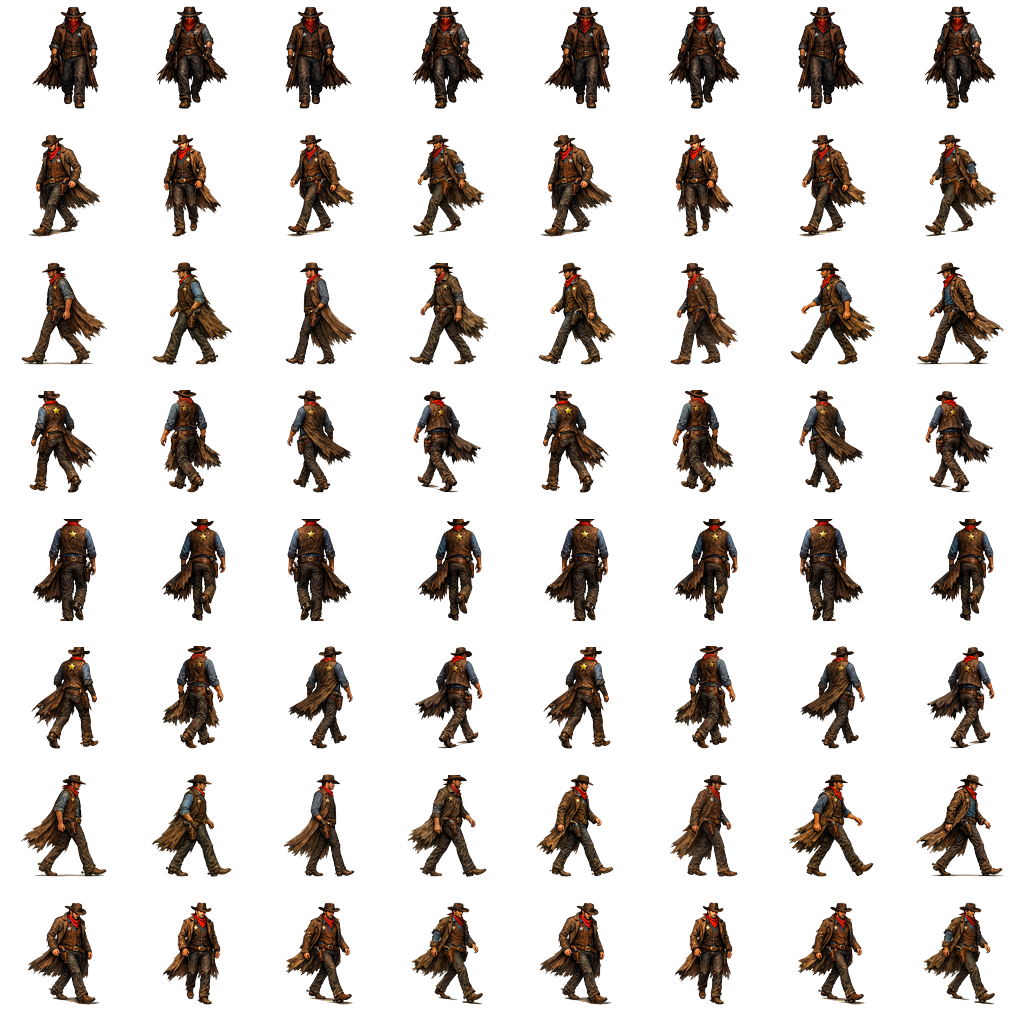
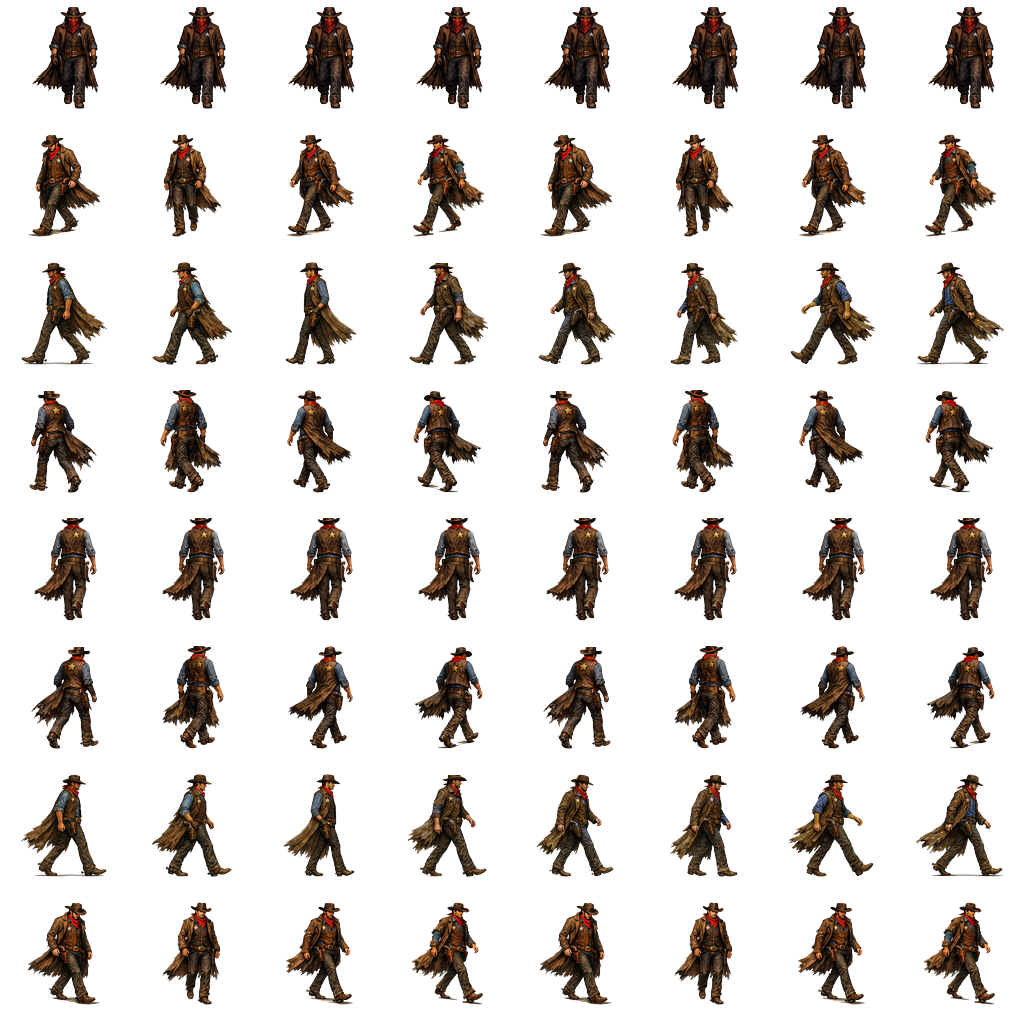
Walk up/down: frozen mid-stride frame + procedural step-bob
Every multi-frame combination for the front/back walk rows still shimmered —
the AI sheet's frames are independent generations, so some visible difference
always survives frame swaps. south/north rows are now a single locked
mid-stride frame (rebuild_walk.py), and drawChrisSprite adds a 2px step-bob
at walk cadence (WALK_BOB_PX / WALK_BOB_HZ in config.js) so movement still
reads as walking. Diagonal/profile rows keep their real cycles, now
histogram-matched onto each row's reference frame for tone consistency
(replaces the weaker mean-luminance normalize).

diff --git a/index.html b/index.html
@@ -59,21 +59,21 @@
 
   <!-- ?v= is a cache-buster: bump it whenever game/*.js changes so browsers
        (file:// and localhost alike) can't serve a stale build. -->
-  <script src="game/config.js?v=10"></script>
-  <script src="game/utils.js?v=10"></script>
-  <script src="game/input.js?v=10"></script>
-  <script src="game/audio.js?v=10"></script>
-  <script src="game/camera.js?v=10"></script>
-  <script src="game/world.js?v=10"></script>
-  <script src="game/assets.js?v=10"></script>
-  <script src="game/chris-manifest.js?v=10"></script>
-  <script src="game/horse-manifest.js?v=10"></script>
-  <script src="game/sprites.js?v=10"></script>
-  <script src="game/entities.js?v=10"></script>
-  <script src="game/systems.js?v=10"></script>
-  <script src="game/game.js?v=10"></script>
-  <script src="game/render.js?v=10"></script>
-  <script src="game/main.js?v=10"></script>
+  <script src="game/config.js?v=11"></script>
+  <script src="game/utils.js?v=11"></script>
+  <script src="game/input.js?v=11"></script>
+  <script src="game/audio.js?v=11"></script>
+  <script src="game/camera.js?v=11"></script>
+  <script src="game/world.js?v=11"></script>
+  <script src="game/assets.js?v=11"></script>
+  <script src="game/chris-manifest.js?v=11"></script>
+  <script src="game/horse-manifest.js?v=11"></script>
+  <script src="game/sprites.js?v=11"></script>
+  <script src="game/entities.js?v=11"></script>
+  <script src="game/systems.js?v=11"></script>
+  <script src="game/game.js?v=11"></script>
+  <script src="game/render.js?v=11"></script>
+  <script src="game/main.js?v=11"></script>
 
 </body>
 </html>

diff --git a/game/sprites.js b/game/sprites.js
@@ -155,8 +155,12 @@ function drawChrisSprite(ctx, player, ox, oy) {
   const dirIdx = Math.max(0, m.directions.indexOf(a.dir));
   const frame = Math.min(a.frame, got.def.framesPerDirection - 1);
   const sx = frame * m.frameWidth, sy = dirIdx * m.frameHeight;
+  // Procedural step-bob while walking — the front/back walk rows are a single
+  // frozen frame (see docs/tools/rebuild_walk.py), so code supplies the motion.
+  const bob = (a.anim === 'walk' && CFG.WALK_BOB_PX)
+    ? Math.abs(Math.sin(Game.time * Math.PI * (CFG.WALK_BOB_HZ||5))) * -CFG.WALK_BOB_PX : 0;
   const dx = (player.x - ox) - anchor.x * scale;
-  const dy = (player.y + (CFG.SPRITE_FOOT_OFFSET||0) - oy) - anchor.y * scale;
+  const dy = (player.y + (CFG.SPRITE_FOOT_OFFSET||0) - oy) - anchor.y * scale + bob;
   const prev = ctx.imageSmoothingEnabled;
   ctx.imageSmoothingEnabled = true;
   // M6 ink outline: the frame's silhouette at ±1px in four directions.

diff --git a/game/config.js b/game/config.js
@@ -146,6 +146,8 @@ Object.assign(CFG, {
   SPRITE_DRAW_SCALE: 0.51,   // spec-baseline art is 102px tall in-cell -> ~52px on screen (idle carries scaleMul 0.88 in the manifest)
   SPRITE_FOOT_OFFSET: 12,    // where the feet plant relative to the collision centre (matches shadow centre, entities.js:441)
   SPRITE_DEBUG: false,       // overlay collision circle + anchor + anim/dir/frame
+  WALK_BOB_PX: 2,            // procedural step-bob amplitude while walking (px)
+  WALK_BOB_HZ: 5,            // step-bob frequency; ~matches the 90ms frame cadence
 });
 
 // Difficulty modes. Multipliers scale enemy stats off the base CFG values.

diff --git a/docs/tools/rebuild_walk.py b/docs/tools/rebuild_walk.py
@@ -24,28 +24,24 @@ from validate_sheet import decode_png, DIRS, CELL
 
 # Per-row keep-lists (frame indices into the PRISTINE sheet, gait order).
 # Rows not listed keep all 8 original frames.
+# NO mirror-synthesized frames: playtests showed a mirrored stride reads as
+# the whole body flip-flopping left/right, even from a near-symmetric source.
+# Frame-to-frame lighting differences are handled by histogram matching below.
 KEEP = {
+    # south/north: SINGLE frozen mid-stride frame. Playtests showed every
+    # multi-frame combination for the front/back views still shimmered (the
+    # frames are independent generations); the engine adds a procedural
+    # step-bob (CFG.WALK_BOB_*) so movement still reads as walking.
+    'south':     [1],               # bulky-cape build, mid-stride
+    'north':     [2],               # slim back view, mid-stride
     'southwest': [0, 2, 3, 7],      # slim cluster (4-6 are a bulkier torso crop)
     'northwest': [0, 2, 3, 7],      # coherent slim subset (1,4,5,6 vary in bulk/light)
 }
-# Front/back rows are near-symmetric, so a full alternating gait is synthesized
-# from ONE stride + ONE passing frame:
-#   [stride-L, pass, stride-R(mirror), pass]
-# Only the stride is mirrored (that's what alternates the legs); the passing
-# frame stays identical so one-sided details (cape/holster) don't ping-pong.
-# Guarantees identical appearance across phases (a mirror can't change
-# palette/lighting). Stride frames picked for near-symmetry (centered cape,
-# both arms visible) so even the mirrored stride barely differs.
-# Pairs chosen by stance-width (wide=stride, narrow=pass) + closest histogram.
-SYNTH = {
-    'south': (1, 3),
-    'north': (1, 6),
-}
-# North diagonals are crossed (see docstring point 2).
-MIRROR_PAIRS = [('southeast', 'southwest'), ('east', 'west'), ('northwest', 'northwest')]
-NE_FROM_NW_UNMIRRORED = True
 
-LUM_CLAMP = (0.75, 1.35)
+# Tone consistency: every frame's per-channel histogram is remapped onto the
+# row's reference frame (median-luminance one), so lighting can't flicker.
+# 1.0 = full match; lower blends toward the original.
+HIST_STRENGTH = 0.85
 
 
 def encode_png(path, w, h, buf):
@@ -85,28 +81,44 @@ def mirror(cell):
     return out
 
 
+def _opaque_px(buf, w, r, f):
+    """Indices of body pixels (alpha>160) in a cell."""
+    out = []
+    for y in range(CELL):
+        for x in range(CELL):
+            i = ((r*CELL+y)*w + f*CELL + x)*4
+            if buf[i+3] > 160:
+                out.append(i)
+    return out
+
+
 def normalize_row(buf, w, r, cols):
-    def lum(f):
-        tot = n = 0
-        for y in range(CELL):
-            for x in range(CELL):
-                i = ((r*CELL+y)*w + f*CELL + x)*4
-                if buf[i+3] > 160:
-                    tot += 0.299*buf[i] + 0.587*buf[i+1] + 0.114*buf[i+2]
-                    n += 1
-        return tot/max(n, 1)
-    lums = [lum(f) for f in range(cols)]
-    target = sorted(lums)[cols//2]
+    """Histogram-match every frame's RGB onto the row's reference frame.
+
+    Quantile-to-quantile per channel over body pixels: pixel at the k-th
+    percentile of its frame's channel distribution takes the reference's
+    k-th percentile value (blended by HIST_STRENGTH). Kills frame-to-frame
+    lighting/contrast differences; pose is untouched.
+    """
+    px = [_opaque_px(buf, w, r, f) for f in range(cols)]
+    lums = []
     for f in range(cols):
-        k = max(LUM_CLAMP[0], min(LUM_CLAMP[1], target/lums[f]))
-        if abs(k-1) < 0.02:
+        tot = sum(0.299*buf[i] + 0.587*buf[i+1] + 0.114*buf[i+2] for i in px[f])
+        lums.append(tot/max(len(px[f]), 1))
+    ref = sorted(range(cols), key=lambda f: lums[f])[cols//2]
+    ref_sorted = [sorted(buf[i+c] for i in px[ref]) for c in range(3)]
+    for f in range(cols):
+        if f == ref or not px[f]:
             continue
-        for y in range(CELL):
-            for x in range(CELL):
-                i = ((r*CELL+y)*w + f*CELL + x)*4
-                if buf[i+3] > 0:
-                    for c in range(3):
-                        buf[i+c] = min(255, round(buf[i+c]*k))
+        n = len(px[f])
+        for c in range(3):
+            order = sorted(range(n), key=lambda k: buf[px[f][k]+c])
+            rs = ref_sorted[c]
+            m = len(rs)
+            for rank, k in enumerate(order):
+                i = px[f][k] + c
+                target = rs[min(m-1, rank*m//n)]
+                buf[i] = round(buf[i] + HIST_STRENGTH*(target - buf[i]))
 
 
 def main():
@@ -117,20 +129,12 @@ def main():
     orig = bytes(orig)
     out = bytearray(orig)
 
-    # 1a. coherent-cluster rebuild for the diagonal rows
+    # 1. coherent-cluster rebuild for the straight + diagonal source rows
     for d, keep in KEEP.items():
         r = DIRS.index(d)
         frames = [get_cell(orig, w, r, f) for f in keep]
         for f in range(cols):
             put_cell(out, w, r, f, frames[f % len(frames)])
-
-    # 1b. mirror-synthesized gait for the front/back rows
-    for d, (stride, passing) in SYNTH.items():
-        r = DIRS.index(d)
-        st, pa = get_cell(orig, w, r, stride), get_cell(orig, w, r, passing)
-        cycle = [st, pa, mirror(st), pa]
-        for f in range(cols):
-            put_cell(out, w, r, f, cycle[f % 4])
 
     # 2+3. mirrors: SE<-SW, E<-W; north diagonals crossed:
     #      NE gets the (up-right-facing) original NW cluster, NW its mirror
@@ -143,7 +147,7 @@ def main():
         for f in range(cols):
             put_cell(out, w, rd, f, mirror(get_cell(out, w, rs, f)))
 
-    # 4. per-row luminance normalization
+    # 4. per-row tone consistency (histogram matching onto the reference frame)
     for r in range(len(DIRS)):
         normalize_row(out, w, r, cols)
 
